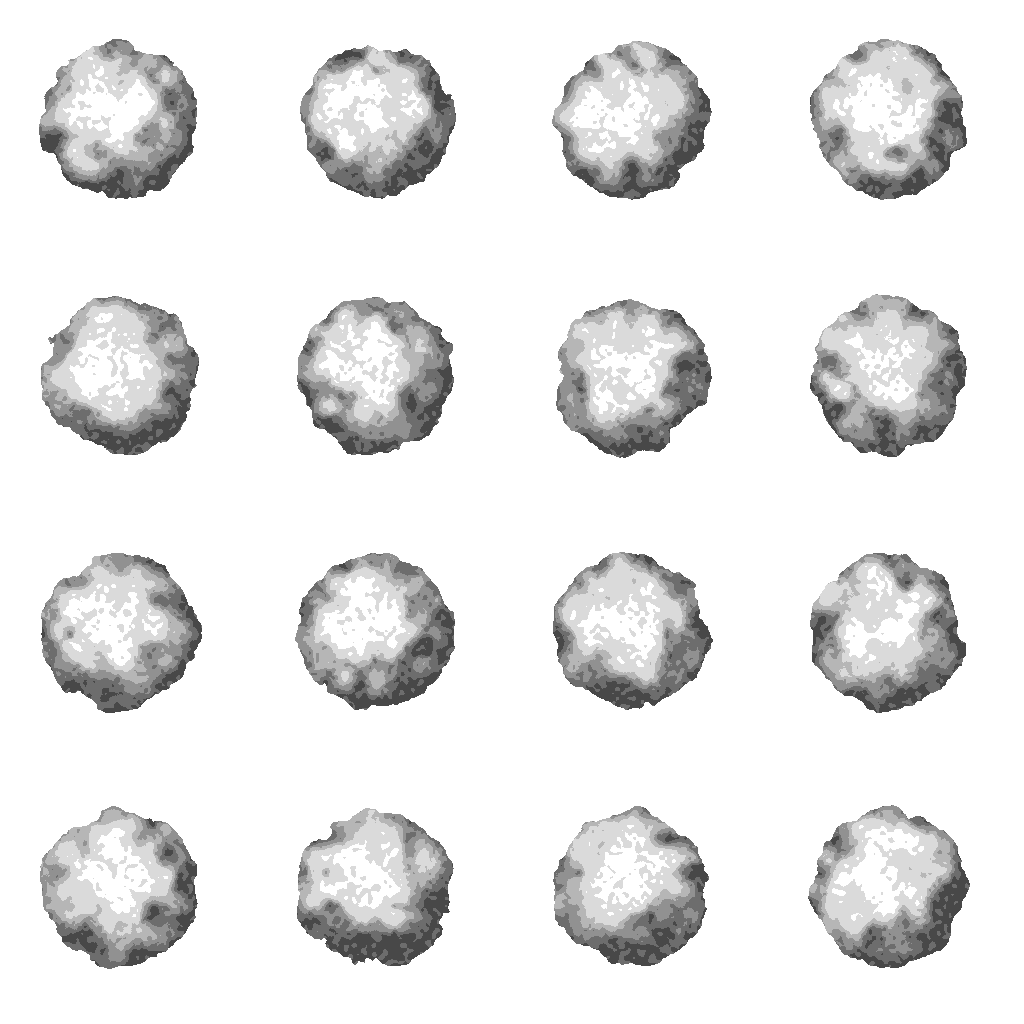
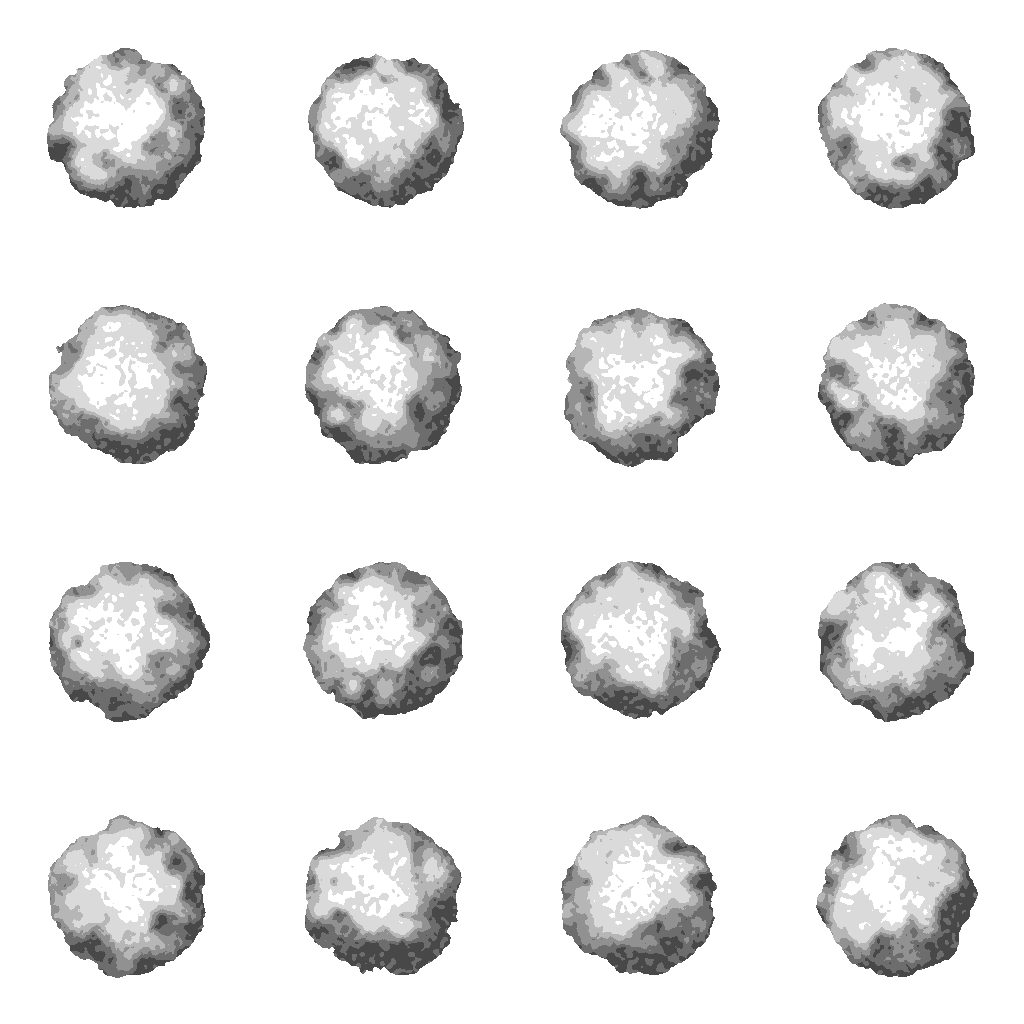
Tune spawns and asteroid sprites

diff --git a/src/scenes/Orbit.js b/src/scenes/Orbit.js
@@ -93,6 +93,7 @@ class Orbit extends Phaser.Scene {
                 this.floatingObjects.push(generatedObject);
                 generatedObject.body.frictionAir = 0;
                 generatedObject.body.frictionStatic = 0;
+                generatedObject.body.slop = 0.0125;
             }
         }
     }
@@ -103,7 +104,7 @@ class Orbit extends Phaser.Scene {
         const tetromino = scene.matter.add.sprite(placeCoord.x, placeCoord.y, tetrominoName, 0, {
             shape: scene.tetrominoCollisions[tetrominoName],
             wrapBounds: scene.wrapBounds
-        }).setAngle(snapCardinalAngleDegrees(Phaser.Math.RND.angle()));
+        }).setDepth(10).setAngle(snapCardinalAngleDegrees(Phaser.Math.RND.angle()));
 
         tetromino.tetromino = true;
 
@@ -115,8 +116,9 @@ class Orbit extends Phaser.Scene {
 
         smallAsteroid
             .setOrigin(0.5)
+            .setDepth(20)
             .setAngle(Phaser.Math.RND.angle()) // Random initital angle
-            .setCircle(24); // Radius of circle body
+            .setCircle(22); // Radius of circle body
 
         smallAsteroid.tetromino = false; // Signal to checkCollisionPair
         smallAsteroid.body.angle += Phaser.Math.RND.realInRange(-0.025, 0.025); // Random angular movement
@@ -130,8 +132,9 @@ class Orbit extends Phaser.Scene {
 
         mediumAsteroid
             .setOrigin(0.5)
+            .setDepth(21)
             .setAngle(Phaser.Math.RND.angle()) // Random initital angle
-            .setCircle(80); // Radius of circle body
+            .setCircle(75); // Radius of circle body
 
         mediumAsteroid.tetromino = false; // Signal to checkCollisionPair
         mediumAsteroid.body.angle += Phaser.Math.RND.realInRange(-0.0125, 0.0125); // Random angular movement

diff --git a/src/main.js b/src/main.js
@@ -21,7 +21,7 @@ const config = {
     physics: {
         default: 'matter',
         matter: {
-            debug: true
+            debug: false
         }
     }
 };
